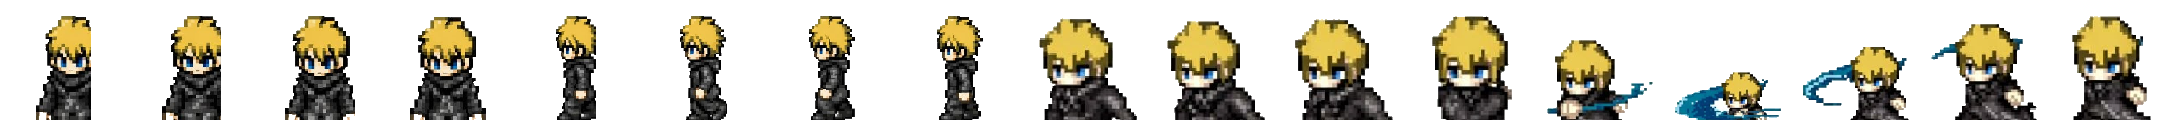
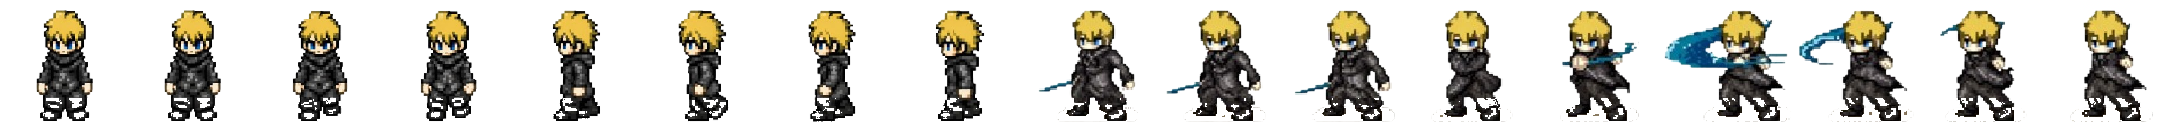
Update combat visuals

diff --git a/core/src/main/java/com/metrohorror/game/screen/FirstScreen.java b/core/src/main/java/com/metrohorror/game/screen/FirstScreen.java
@@ -51,6 +51,7 @@ public class FirstScreen implements Screen {
     private static final float TYPE_SPEED = 42f;
     private static final int KNIFE_DAMAGE = 2;
     private static final int KILL_HEAL_AMOUNT = 5;
+    private static final float KNIFE_FORWARD_RANGE_BONUS = 28f;
     private static final float DOWN_ATTACK_BOUNCE = 520f;
     private static final float RESPAWN_X_OFFSET = 120f;
     private static final float PAUSE_MENU_WIDTH = 360f;
@@ -64,7 +65,7 @@ public class FirstScreen implements Screen {
     private static final int HERO_FRAME_SIZE = 128;
     private static final int HERO_FRAME_COUNT = 17;
     private static final float HERO_BODY_DRAW_WIDTH = 88f;
-    private static final float HERO_ATTACK_DRAW_WIDTH = 136f;
+    private static final float HERO_ATTACK_DRAW_WIDTH = HERO_BODY_DRAW_WIDTH;
     private static final float HERO_DRAW_HEIGHT = 96f;
     private static final int SAVE_SLOT_COUNT = 3;
     private static final String SAVE_PREFERENCES = "metrohorror-saves";
@@ -187,9 +188,12 @@ public class FirstScreen implements Screen {
         if (!prologueActive) {
             worldViewport.apply();
             shapeRenderer.setProjectionMatrix(camera.combined);
+            Gdx.gl.glEnable(GL20.GL_BLEND);
+            Gdx.gl.glBlendFunc(GL20.GL_SRC_ALPHA, GL20.GL_ONE_MINUS_SRC_ALPHA);
             shapeRenderer.begin(ShapeRenderer.ShapeType.Filled);
             renderWorld();
             shapeRenderer.end();
+            Gdx.gl.glDisable(GL20.GL_BLEND);
 
             batch.setProjectionMatrix(camera.combined);
             batch.begin();
@@ -385,6 +389,9 @@ public class FirstScreen implements Screen {
             if (handSlot >= 0) {
                 draggedWeapon = inventorySystem.takeWeaponFromHand(handSlot);
                 if (draggedWeapon != null) {
+                    if (handSlot == inventorySystem.getSelectedWeaponSlot()) {
+                        cancelKnifeSwing();
+                    }
                     inventoryDragSource = InventoryDragSource.HAND;
                     inventoryDragSlot = handSlot;
                 }
@@ -458,6 +465,11 @@ public class FirstScreen implements Screen {
         draggedWeapon = null;
         inventoryDragSource = InventoryDragSource.NONE;
         inventoryDragSlot = -1;
+    }
+
+    private void cancelKnifeSwing() {
+        knifeSwingTimer = 0f;
+        knifeDamageApplied = false;
     }
 
     private int getHandSlotAt(float x, float y) {
@@ -857,6 +869,7 @@ public class FirstScreen implements Screen {
             renderDoor(DUNGEON_RETURN_DOOR, 0.34f, 0.19f, 0.12f);
             renderDungeonEnemies();
         }
+        renderKnifeSlash();
 
     }
 
@@ -911,7 +924,7 @@ public class FirstScreen implements Screen {
                     playerBounds.width + 20f, range);
         }
 
-        float width = range;
+        float width = range + KNIFE_FORWARD_RANGE_BONUS;
         float height = 54f;
         float x = player.isFacingRight()
                 ? playerBounds.x + playerBounds.width - 2f
@@ -1100,10 +1113,19 @@ public class FirstScreen implements Screen {
         float attackProgress = enemy.isAttacking() ? enemy.getAttackProgress() : 0f;
         boolean heavy = enemy.getAttackStyle() == Enemy.AttackStyle.HEAVY;
         boolean lunge = enemy.getAttackStyle() == Enemy.AttackStyle.LUNGE;
+        float hitFlash = enemy.isRecentlyDamaged() ? MathUtils.clamp(enemy.getDamageFlashTimer() / 0.22f, 0f, 1f) : 0f;
 
-        shapeRenderer.setColor(enemy.getSkinR(), enemy.getSkinG(), enemy.getSkinB(), 1f);
+        shapeRenderer.setColor(
+                MathUtils.lerp(enemy.getSkinR(), 1f, hitFlash * 0.85f),
+                MathUtils.lerp(enemy.getSkinG(), 0.18f, hitFlash * 0.85f),
+                MathUtils.lerp(enemy.getSkinB(), 0.12f, hitFlash * 0.85f),
+                1f);
         shapeRenderer.rect(x + 7f, y + 39f + breathe, 18f, 18f);
-        shapeRenderer.setColor(enemy.getCoatR(), enemy.getCoatG(), enemy.getCoatB(), 1f);
+        shapeRenderer.setColor(
+                MathUtils.lerp(enemy.getCoatR(), 0.92f, hitFlash),
+                MathUtils.lerp(enemy.getCoatG(), 0.05f, hitFlash),
+                MathUtils.lerp(enemy.getCoatB(), 0.04f, hitFlash),
+                1f);
         shapeRenderer.rect(x + 1f, y + 8f, 30f, 36f + breathe * 0.3f);
         shapeRenderer.setColor(0.025f, 0.025f, 0.030f, 1f);
         shapeRenderer.rect(x + 4f, y + 47f + breathe, 26f, 7f);
@@ -1128,6 +1150,14 @@ public class FirstScreen implements Screen {
         shapeRenderer.setColor(0.055f, 0.058f, 0.064f, 1f);
         shapeRenderer.rect(x + 4f + walk, y, 9f, 13f);
         shapeRenderer.rect(x + 20f - walk, y, 9f, 13f);
+
+        if (hitFlash > 0f) {
+            shapeRenderer.setColor(1f, 0.04f, 0.03f, 0.82f * hitFlash);
+            shapeRenderer.rectLine(x - 5f, y + 63f, x + 37f, y + 72f, 5f);
+            shapeRenderer.rectLine(x + 37f, y + 63f, x - 5f, y + 72f, 4f);
+            shapeRenderer.setColor(1f, 0.72f, 0.58f, 0.92f * hitFlash);
+            shapeRenderer.rectLine(x + 2f, y + 68f, x + 30f, y + 68f, 2.5f);
+        }
     }
 
     private void renderKnifeSlash() {
@@ -1140,6 +1170,7 @@ public class FirstScreen implements Screen {
         float centerX = player.getBounds().x + player.getBounds().width * 0.5f;
         float centerY = player.getBounds().y + player.getBounds().height * 0.58f;
         float range = weapon.getRange();
+        float forwardRange = range + KNIFE_FORWARD_RANGE_BONUS;
         float fade = MathUtils.sin(progress * MathUtils.PI);
 
         float startX = centerX + dir * 10f;
@@ -1154,8 +1185,38 @@ public class FirstScreen implements Screen {
             endY = player.getBounds().y - range * 0.62f;
             startY = player.getBounds().y + 18f;
         } else {
-            endX = centerX + dir * (range + 18f);
-            endY = centerY + MathUtils.lerp(-18f, 18f, progress);
+            float arcCenterX = centerX + dir * 20f;
+            float arcCenterY = centerY + MathUtils.lerp(-4f, 5f, progress);
+            float radiusX = forwardRange + 16f;
+            float radiusY = 31f;
+            float startAngle = -1.05f + progress * 0.42f;
+            float endAngle = 1.05f + progress * 0.42f;
+            float previousX = 0f;
+            float previousY = 0f;
+
+            for (int i = 0; i <= 10; i++) {
+                float t = i / 10f;
+                float angle = MathUtils.lerp(startAngle, endAngle, t);
+                float px = arcCenterX + dir * (24f + MathUtils.cos(angle) * radiusX);
+                float py = arcCenterY + MathUtils.sin(angle) * radiusY;
+                if (i > 0) {
+                    shapeRenderer.setColor(0.02f, 0.28f, 0.34f, 0.44f * fade);
+                    shapeRenderer.rectLine(previousX, previousY, px, py, 14f);
+                    shapeRenderer.setColor(0.10f, 0.80f, 0.94f, 0.82f * fade);
+                    shapeRenderer.rectLine(previousX, previousY, px, py, 8f);
+                    shapeRenderer.setColor(0.78f, 0.98f, 1f, 0.94f * fade);
+                    shapeRenderer.rectLine(previousX + dir * 1.5f, previousY + 1.5f, px + dir * 1.5f, py + 1.5f, 2.8f);
+                }
+                previousX = px;
+                previousY = py;
+            }
+
+            shapeRenderer.setColor(0.70f, 0.96f, 1f, 0.42f * fade);
+            shapeRenderer.triangle(
+                    arcCenterX + dir * 30f, arcCenterY - 24f,
+                    arcCenterX + dir * (forwardRange + 54f), arcCenterY,
+                    arcCenterX + dir * 30f, arcCenterY + 26f);
+            return;
         }
 
         shapeRenderer.setColor(0.18f, 0.10f, 0.08f, fade);
@@ -1779,9 +1840,14 @@ public class FirstScreen implements Screen {
 
         if (locationIndex == -1 && lyingInBed) {
             frame = heroFrames[0];
-            drawWidth = 126f;
-            drawHeight = 86f;
-            batch.draw(frame, BEDROOM_BED.x + 72f, BEDROOM_BED.y + 22f, drawWidth, drawHeight);
+            drawWidth = HERO_BODY_DRAW_WIDTH;
+            drawHeight = HERO_DRAW_HEIGHT;
+            float centerX = BEDROOM_BED.x + 124f;
+            float centerY = BEDROOM_BED.y + 54f;
+            float x = centerX - drawWidth * 0.5f;
+            float y = centerY - drawHeight * 0.5f;
+            batch.draw(frame, x, y, drawWidth * 0.5f, drawHeight * 0.5f,
+                    drawWidth, drawHeight, 1f, 1f, -90f);
             return;
         }
 
@@ -1822,7 +1888,7 @@ public class FirstScreen implements Screen {
         }
 
         if (weapon != null) {
-            return 8;
+            return 8 + (int)(player.getAnimationTime() * 0.45f) % 3;
         }
         return 1;
     }
@@ -2293,4 +2359,3 @@ public class FirstScreen implements Screen {
         DOWN
     }
 }
-

diff --git a/core/src/main/java/com/metrohorror/game/entities/Enemy.java b/core/src/main/java/com/metrohorror/game/entities/Enemy.java
@@ -43,6 +43,7 @@ public class Enemy {
     private float alertness;
     private float decisionTimer;
     private float strafeDirection = 1f;
+    private float damageFlashTimer;
     private boolean lootDropped;
     private final AttackStyle attackStyle;
 
@@ -78,6 +79,7 @@ public class Enemy {
     public void update(float delta) {
         attackCooldown = Math.max(0f, attackCooldown - delta);
         attackAnimationTimer = Math.max(0f, attackAnimationTimer - delta);
+        damageFlashTimer = Math.max(0f, damageFlashTimer - delta);
         decisionTimer = Math.max(0f, decisionTimer - delta);
         bounds.setPosition(x, y);
     }
@@ -86,6 +88,7 @@ public class Enemy {
         if (!alive) return;
 
         health -= damage;
+        damageFlashTimer = 0.22f;
         if (health <= 0) {
             alive = false;
         }
@@ -183,6 +186,14 @@ public class Enemy {
 
     public boolean isAttacking() {
         return attackAnimationTimer > 0f;
+    }
+
+    public boolean isRecentlyDamaged() {
+        return damageFlashTimer > 0f;
+    }
+
+    public float getDamageFlashTimer() {
+        return damageFlashTimer;
     }
 
     public float getAlertness() {
